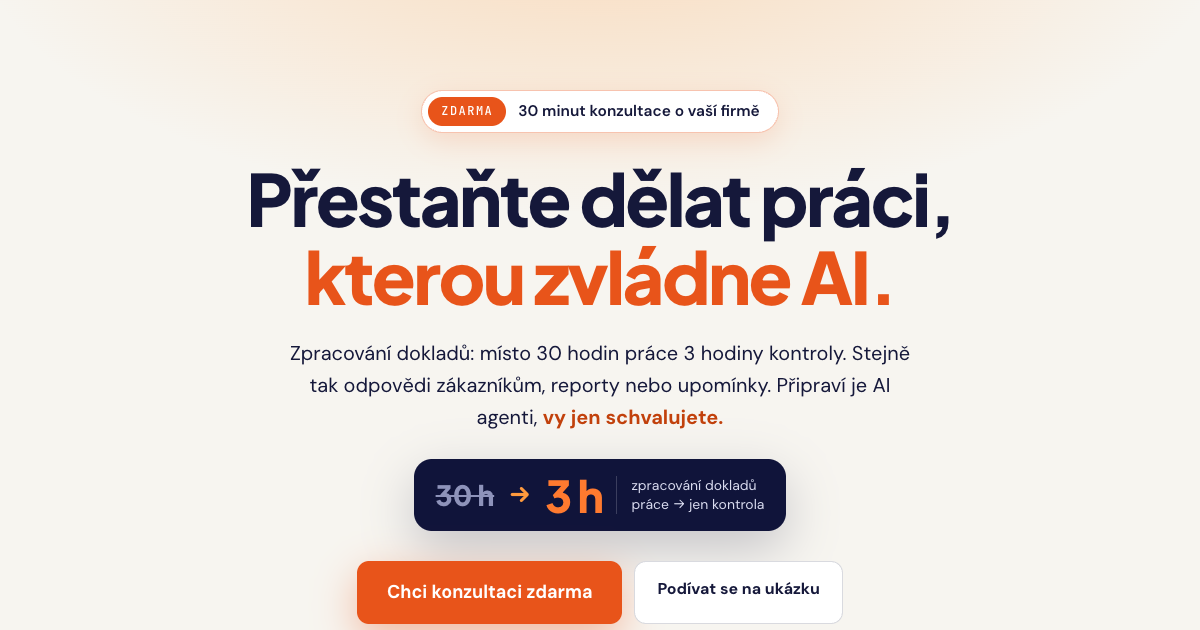
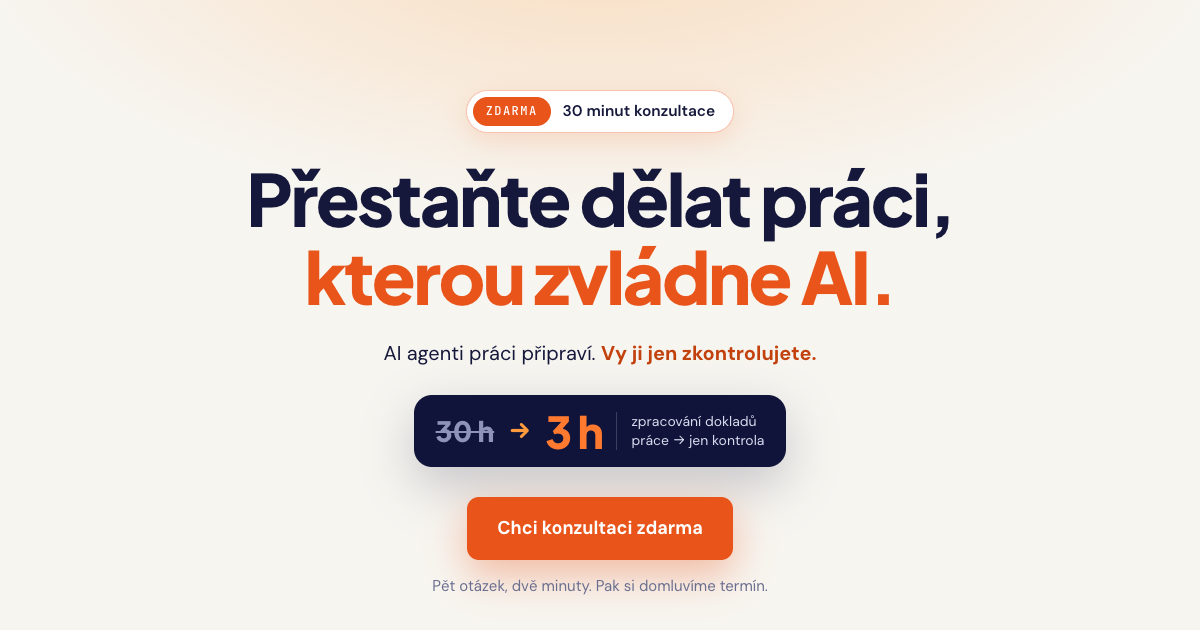
start: poloviční texty, kratší mobil a přímá cesta k formuláři
- texty stránky zkráceny z 522 na 245 slov, na mobilu případy použití jako kompaktní řádky
- formulář začíná rovnou první otázkou (bez úvodní obrazovky), jedno znění hlavního tlačítka
- výsledek na mobilu: krátký verdikt, zamčená část jen jako ukázka, 3 pole místo 4
- po odemčení tlačítko na výběr termínu v kalendáři
- sloučena ukázka do sekce Ráno, odstraněny karty pro koho a oranžový pruh

Changed region(s): [[0.2467, 0.6032, 0.74, 1.0], [0.3392, 0.1206, 0.6475, 0.2111], [0.2467, 0.5429, 0.7708, 0.573]]

diff --git a/start/index.html b/start/index.html
@@ -180,7 +180,7 @@ section{padding:72px 0}
 .az .task .n{flex:none;font-family:var(--mono);color:var(--o1);font-size:13px;padding-top:3px}
 .az .task p{margin:0;font-size:15px}
 .az .locked{position:relative;margin-top:10px}
-.az .locked .blur{filter:blur(6px);opacity:.55;pointer-events:none;user-select:none}
+.az .locked .blur{filter:blur(6px);opacity:.55;pointer-events:none;user-select:none;max-height:104px;overflow:hidden}
 .az .locked .veil{position:absolute;inset:0;display:grid;place-items:center;text-align:center;padding:16px}
 .az .veil span{background:rgba(16,20,58,.85);border:1px solid var(--line);border-radius:999px;padding:8px 14px;font-size:14px;font-weight:600}
 .az form{display:grid;gap:12px;margin-top:14px}
@@ -211,7 +211,22 @@ section{padding:72px 0}
 footer{background:#0B0F2E;color:#8E93BA;padding:28px 0;font-size:14px}
 footer .wrap{display:flex;flex-wrap:wrap;gap:10px 24px;justify-content:space-between;align-items:center}
 footer a{color:#C9CCE6}
-@media(max-width:600px){section{padding:56px 0}.hero{padding:48px 0 44px}.btn{width:100%;text-align:center}.top .btn{width:auto}.az{padding:60px 0}}
+.micro{margin-top:14px;font-size:15px;color:var(--ink3)}
+.az .verdict h2{font-size:clamp(22px,4.6vw,30px);margin:0 0 6px}
+.az .cal{display:inline-block;text-decoration:none;color:#fff;margin-top:6px}
+@media(max-width:639px){
+.ucs{gap:0;margin-top:22px;background:#fff;border:1px solid var(--line);border-radius:18px;padding:2px 18px}
+.uc,.uc:first-child{display:grid;grid-template-columns:1fr auto;align-items:center;gap:8px 12px;padding:14px 0;border:0;border-bottom:1px solid var(--line);border-radius:0;box-shadow:none;background:none}
+.uc:last-child{border-bottom:0}
+.uc h3{font-size:16px}
+.uc .nums{margin:0;gap:6px;justify-content:flex-end;flex-wrap:wrap}
+.uc .was{font-size:15px}.uc .arr{font-size:14px}.uc .now{font-size:24px}
+.uc .per{flex-basis:100%;text-align:right;margin:0;font-size:10px}
+.uc .bars{grid-column:1/-1;margin:0;height:6px}.uc .bars i{height:6px}
+.uc p{display:none}
+}
+@media(max-width:600px){section{padding:44px 0}.hero{padding:40px 0 40px}.btn{width:100%;text-align:center}.top .btn{width:auto}.az{padding:44px 0 52px}.az .cal{width:100%;text-align:center}
+.free{margin-bottom:20px}.flow{gap:14px;margin-top:26px}.flownote{margin-top:20px}.queue .m{padding:12px 16px}.az .bar{margin-bottom:20px}}
 @media(prefers-reduced-motion:reduce){*{animation:none!important;transition:none!important}html{scroll-behavior:auto}}
 </style>
 </head>
@@ -223,91 +238,76 @@ footer a{color:#C9CCE6}
 
 <main>
 <section class="hero"><div class="wrap">
-<a class="free" href="#analyza"><b>Zdarma</b>30 minut konzultace o vaší firmě</a>
+<a class="free" href="#analyza"><b>Zdarma</b>30 minut konzultace</a>
 <h1>Přestaňte dělat práci,<br><span>kterou zvládne AI.</span></h1>
-<p class="lead">Zpracování dokladů: místo 30 hodin práce 3 hodiny kontroly. Stejně tak odpovědi zákazníkům, reporty nebo upomínky. Připraví je AI agenti, <b>vy jen schvalujete.</b></p>
+<p class="lead">AI agenti práci připraví. <b>Vy ji jen zkontrolujete.</b></p>
 <a class="herostat" href="#pripady" aria-label="Zpracování dokladů: z 30 hodin práce na 3 hodiny kontroly"><span class="was">30 h</span><span class="arr">→</span><span class="now">3 h</span><span class="what">zpracování dokladů<br>práce → jen kontrola</span></a>
-<div class="cta"><a class="btn big" href="#analyza">Chci konzultaci zdarma</a><a class="btn ghost" href="../demo/">Podívat se na ukázku</a></div>
-<ul class="pills" style="margin-top:22px"><li>30 minut, nic neplatíte</li><li>k ničemu se nezavazujete</li><li>bez vás nic neodejde</li></ul>
+<div class="cta"><a class="btn big" href="#analyza">Chci konzultaci zdarma</a></div>
+<p class="micro">Pět otázek, dvě minuty. Pak si domluvíme termín.</p>
 </div></section>
 
 <section id="pripady"><div class="wrap">
-<p class="eyebrow">Kde se vám vrátí čas</p>
-<h2>Z hodin práce zbydou hodiny kontroly.</h2>
-<p class="sub">Šest prací, které firmy dělají ručně každý týden. Agent je připraví, člověk zkontroluje a schválí.</p>
+<p class="eyebrow">Úspora času</p>
+<h2>Z hodin práce hodiny kontroly.</h2>
 <div class="ucs">
 <article class="uc"><h3>Zpracování dokladů</h3>
 <div class="nums"><span class="was">30 h</span><span class="arr">→</span><span class="now">3 h</span></div>
 <div class="bars" aria-hidden="true"><i class="b1"></i><i class="b2" style="width:10%"></i></div>
-<p>Agent doklady přečte, zařadí a připraví k zaúčtování. Vy projdete jen to, co označil.</p></article>
+<p>Agent je přečte, zařadí a připraví k zaúčtování.</p></article>
 <article class="uc"><h3>Dotazy zákazníků</h3>
 <div class="nums"><span class="was">15 h</span><span class="arr">→</span><span class="now">6 h</span><span class="per">týdně</span></div>
 <div class="bars" aria-hidden="true"><i class="b1"></i><i class="b2" style="width:40%"></i></div>
-<p>U každého dotazu čeká návrh odpovědi s údaji z objednávky. Stačí schválit nebo upravit.</p></article>
+<p>Odpověď je připravená, vy ji schválíte.</p></article>
 <article class="uc"><h3>Poptávky a připomenutí</h3>
 <div class="nums"><span class="was">8 h</span><span class="arr">→</span><span class="now">3 h</span><span class="per">týdně</span></div>
 <div class="bars" aria-hidden="true"><i class="b1"></i><i class="b2" style="width:38%"></i></div>
-<p>Odpovědi na poptávky a zprávy rozjednaným klientům jsou nachystané. Odesíláte vy.</p></article>
+<p>Zprávy jsou nachystané, odesíláte vy.</p></article>
 <article class="uc"><h3>Reporty a zjišťování stavu</h3>
 <div class="nums"><span class="was">6 h</span><span class="arr">→</span><span class="now">1 h</span><span class="per">týdně</span></div>
 <div class="bars" aria-hidden="true"><i class="b1"></i><i class="b2" style="width:17%"></i></div>
-<p>Místo exportů a dotazů kolegům přijde ráno hotový přehled.</p></article>
+<p>Ráno přijde hotový přehled.</p></article>
 <article class="uc"><h3>Zápisy a hledání informací</h3>
 <div class="nums"><span class="was">5 h</span><span class="arr">→</span><span class="now">1,5 h</span><span class="per">týdně</span></div>
 <div class="bars" aria-hidden="true"><i class="b1"></i><i class="b2" style="width:30%"></i></div>
-<p>Co se domluvilo, je zapsané na jednom místě. Nikdo to nehledá v e-mailech.</p></article>
-<article class="uc"><h3>Kontroly e-shopu a reklamy</h3>
+<p>Všechno je zapsané na jednom místě.</p></article>
+<article class="uc"><h3>Kontroly e‑shopu a reklamy</h3>
 <div class="nums"><span class="was">4 h</span><span class="arr">→</span><span class="now">1 h</span><span class="per">týdně</span></div>
 <div class="bars" aria-hidden="true"><i class="b1"></i><i class="b2" style="width:25%"></i></div>
-<p>Agent kontroluje každý den. Člověk řeší jen to, co našel.</p></article>
+<p>Agent hlídá každý den, vy řešíte nálezy.</p></article>
 </div>
-<p class="est"><b>Jsou to odhady, ne měření.</b> Čísla týdně počítáme pro tříčlenný tým menšího e-shopu. Jak to vyjde u vás, spočítáme na vašich datech v první analýze.</p>
-<div class="cta"><a class="btn big" href="#analyza">Chci vědět, kolik ušetříme my</a></div>
+<p class="est"><b>Jsou to odhady, ne měření.</b> Týdenní čísla platí pro tříčlenný tým menšího e‑shopu. Vaše spočítáme v první analýze.</p>
+<div class="cta"><a class="btn big" href="#analyza">Chci konzultaci zdarma</a></div>
 </div></section>
 
 <section class="white"><div class="wrap split">
 <div>
-<p class="eyebrow">Jak vypadá ráno</p>
-<h2>Přijdete do práce a&nbsp;půlka je hotová.</h2>
-<p class="sub">Agent není chatovací okno, do kterého musíte psát. Je to pomocník s jednou jasnou prací. Udělá ji sám podle plánu a výsledek vám pošle tam, kde už pracujete, třeba do Slacku nebo e-mailu.</p>
-<p class="sub">Vy návrh schválíte, upravíte, nebo vrátíte. Když si agent není jistý, řekne to a nechá rozhodnutí na vás.</p>
+<p class="eyebrow">Jak to vypadá</p>
+<h2>Ráno máte půlku hotovou.</h2>
+<p class="sub">Agent pracuje sám podle plánu. Výsledek vám pošle do Slacku nebo e-mailu a vy ho schválíte, upravíte, nebo vrátíte.</p>
+<p class="sub"><a href="../demo/">Prohlédnout ukázku na vymyšleném e‑shopu →</a></p>
 </div>
 <div class="queue" aria-label="Ukázka ranních zpráv od agentů">
 <div class="qh"><span># ranní-fronta</span><span>ukázka</span></div>
-<div class="m"><div class="av">P</div><div><b>Podpora</b><time>06:30</time><p>K devíti dotazům mám připravené odpovědi. Jednu reklamaci nechávám na vás, nejsem si jistý.</p><span class="ok">Schválit 9</span><span class="no">Otevřít</span></div></div>
-<div class="m"><div class="av">O</div><div><b>Obchod</b><time>06:45</time><p>Tři rozjednané nabídky čekají na ozvání. Zprávy mám nachystané, u každé je, o čem byla řeč naposledy.</p></div></div>
-<div class="m"><div class="av">F</div><div><b>Finance</b><time>07:00</time><p>Tři faktury jsou po splatnosti. Upomínky jsou připravené, nic neodešlo.</p></div></div>
+<div class="m"><div class="av">P</div><div><b>Podpora</b><time>06:30</time><p>Devět odpovědí je připravených. Jednu reklamaci nechávám na vás.</p><span class="ok">Schválit 9</span><span class="no">Otevřít</span></div></div>
+<div class="m"><div class="av">O</div><div><b>Obchod</b><time>06:45</time><p>Tři nabídky čekají na ozvání. Zprávy mám nachystané.</p></div></div>
+<div class="m"><div class="av">F</div><div><b>Finance</b><time>07:00</time><p>Tři faktury jsou po splatnosti. Upomínky čekají na schválení.</p></div></div>
 </div>
-</div></section>
-
-<section class="white"><div class="wrap demo">
-<div><p class="eyebrow">Ukázka</p><h2>Podívejte se, jak to vypadá v provozu.</h2><p>Vymyšlený e-shop Zelená bedýnka: osm přehledů od objednávek po finance a u každého návrhy agentů ke schválení. Data jsou smyšlená, systém je stejný, jaký používáme sami.</p></div>
-<a class="btn ghost" href="../demo/">Otevřít ukázku</a>
 </div></section>
 
 <section id="postup"><div class="wrap">
-<p class="eyebrow">Jak to proběhne</p>
-<h2>Čtyři kroky. První dva vás nestojí nic.</h2>
+<p class="eyebrow">Postup</p>
+<h2>Čtyři kroky. První dva jsou zdarma.</h2>
 <ol class="flow">
-<li class="free1"><span class="dot">1</span><div class="fb"><span class="tag">2 minuty · zdarma</span><h3>Pět otázek</h3><p>Odpovíte dole na stránce. Hned uvidíte tři agenty, kteří by u vás mohli běžet první.</p></div></li>
-<li class="main"><span class="dot">2</span><div class="fb"><span class="tag">30 minut · zdarma</span><h3>Konzultace</h3><p>Zavoláme si. Projdeme, co vás pálí a kde začít. Přístupy do systémů nepotřebujeme.</p></div></li>
-<li><span class="dot">3</span><div class="fb"><span class="tag">cena podle rozsahu</span><h3>První analýza</h3><p>Na vašich datech spočítáme, kde se ztrácí nejvíc času. Dostanete čísla a zkušební přehled firmy.</p></div></li>
-<li><span class="dot">4</span><div class="fb"><span class="tag">nabídka po analýze</span><h3>Zavedení a péče</h3><p>Postavíme, co dává smysl, zaučíme vaše lidi a hlídáme, že to běží.</p></div></li>
+<li class="free1"><span class="dot">1</span><div class="fb"><span class="tag">2 minuty · zdarma</span><h3>Pět otázek</h3><p>Uvidíte, kterým agentem začít.</p></div></li>
+<li class="main"><span class="dot">2</span><div class="fb"><span class="tag">30 minut · zdarma</span><h3>Konzultace</h3><p>Projdeme, co vás pálí a kde začít.</p></div></li>
+<li><span class="dot">3</span><div class="fb"><span class="tag">cena podle rozsahu</span><h3>První analýza</h3><p>Spočítáme úsporu na vašich datech.</p></div></li>
+<li><span class="dot">4</span><div class="fb"><span class="tag">nabídka po analýze</span><h3>Zavedení a péče</h3><p>Postavíme, zaučíme lidi a hlídáme provoz.</p></div></li>
 </ol>
-<p class="flownote">Po každém kroku se rozhodujete znovu. Když to nedává smysl, skončíme.</p>
-<div class="fit">
-<div class="card yes"><h3>Dává to smysl, když</h3><ul><li>je vás ve firmě aspoň 15</li><li>se u vás opakuje hodně stejné práce</li><li>máte člověka, který si to vezme za své</li></ul></div>
-<div class="card nope"><h3>Zatím to není pro vás, když</h3><ul><li>je vás pár a všechno víte z hlavy</li><li>čekáte, že AI nahradí lidi</li><li>nechcete nikomu říct, jak má firma fungovat</li></ul></div>
-</div>
-</div></section>
-
-<section class="band"><div class="wrap">
-<div><h2>30 minut. Zdarma. K&nbsp;ničemu se&nbsp;nezavazujete.</h2><p>Odpovězte na pět otázek a ozveme se s termínem. Na konzultaci už budeme vědět, o čem mluvit.</p></div>
-<a class="btn white" href="#analyza">Začít pěti otázkami ↓</a>
+<p class="flownote">Po každém kroku se rozhodujete znovu.</p>
 </div></section>
 
 <section class="az" id="analyza"><div class="in">
-<div class="hd"><span class="mono">Online analýza</span><span class="mono" id="stepLabel"></span></div>
+<div class="hd"><span class="mono" id="hdLeft"></span><span class="mono" id="stepLabel"></span></div>
 <div class="bar" aria-hidden="true"><i id="bar"></i></div>
 <div id="app" aria-live="polite"></div>
 <noscript><p>Formulář potřebuje zapnutý JavaScript. Můžete nám také napsat na <a href="mailto:petr@locoglobal.ai">petr@locoglobal.ai</a>.</p></noscript>
@@ -328,7 +328,9 @@ const CONFIG = {
   // Kam se odešle kontakt (POST, JSON). Prázdné = prototyp, nic se neodesílá.
   submitUrl: "",
   // Správce osobních údajů — doplnit před spuštěním.
-  privacyText: "Kontakt použijeme jen k tomu, abychom se vám ozvali s výsledkem a termínem konzultace.",
+  // Kalendář pro výběr termínu konzultace (stejný odkaz jako v podrobné verzi webu).
+  calendarUrl: "https://calendar.app.google/v39ka3uchSRSSG2AA",
+  privacyText: "Kontakt použijeme jen k domluvě konzultace.",
   privacyUrl: ""
 };
 
@@ -362,26 +364,26 @@ const CATALOG = {
 
 /* ---------- Otázky ---------- */
 const QUESTIONS = [
-  { id:"industry", title:"V jakém oboru podnikáte?", hint:"Podle oboru vybereme agenty z katalogu.", options:[
+  { id:"industry", title:"V jakém oboru podnikáte?", hint:"Pět otázek, pak si domluvíme termín konzultace. Hned uvidíte, kterým agentem začít.", options:[
     {v:"ecom", t:"E-commerce a retail"},
     {v:"services", t:"Profesní služby", s:"Účetní, právní, poradenské a podobné firmy."},
     {v:"production", t:"Výroba a velkoobchod"},
     {v:"other", t:"Jiný obor"} ]},
-  { id:"size", title:"Kolik vás ve firmě je?", hint:"Podle velikosti se liší, kde začít.", cols:2, options:[
+  { id:"size", title:"Kolik vás ve firmě je?", cols:2, options:[
     {v:"lt15", t:"Do 15 lidí"},
     {v:"15-50", t:"15–50 lidí"},
     {v:"50-250", t:"50–250 lidí"},
     {v:"250+", t:"Přes 250 lidí"} ]},
-  { id:"pain", title:"Co vás dnes nejvíc pálí?", hint:"Agent se nasazuje první tam, kde to tlačí.",
+  { id:"pain", title:"Co vás dnes nejvíc pálí?",
     options:(a)=>CATALOG[a.industry||"other"].map((u,i)=>({v:String(i), t:u.pain})) },
-  { id:"systems", multi:true, title:"Kde u vás vzniká práce?", hint:"Vyberte všechno, co platí. Na jeden z těch systémů se první agent napojí.", cols:2, options:[
+  { id:"systems", multi:true, title:"Kde u vás vzniká práce?", hint:"Vyberte všechno, co platí.", cols:2, options:[
     {v:"mail", t:"E-mail a dokumenty"},
     {v:"chat", t:"Slack nebo Teams"},
     {v:"crm", t:"CRM"},
     {v:"helpdesk", t:"Helpdesk a tikety"},
     {v:"erp", t:"ERP nebo účetnictví"},
     {v:"eshop", t:"E-shop"} ]},
-  { id:"owner", title:"Máte člověka, který by si AI ve firmě vzal za své?", hint:"Nemusí být programátor. Stačí, že to povede.", options:[
+  { id:"owner", title:"Máte člověka, který si AI vezme za své?", hint:"Nemusí to být programátor.", options:[
     {v:"yes", t:"Ano, víme kdo"},
     {v:"maybe", t:"Asi ano, našli bychom ho"},
     {v:"no", t:"Ne, nikoho takového nemáme"} ]}
@@ -389,7 +391,7 @@ const QUESTIONS = [
 
 /* ---------- Stav ---------- */
 let started=false;
-const state = { step:-1, answers:{}, lead:null, sent:false };
+const state = { step:0, answers:{}, lead:null, sent:false };
 const app = document.getElementById("app");
 const $ = (h)=>{ const t=document.createElement("template"); t.innerHTML=h.trim(); return t.content.firstElementChild; };
 const esc = (s)=>String(s).replace(/[&<>"']/g,c=>({"&":"&amp;","<":"&lt;",">":"&gt;",'"':"&quot;","'":"&#39;"}[c]));
@@ -401,49 +403,35 @@ function pickTasks(a){
   return [list[first], ...list.filter((_,i)=>i!==first)].slice(0,3);
 }
 function verdict(a){
-  if(a.size==="lt15") return {kind:"entry", title:"Začněte jedním hotovým agentem.", text:"Ve firmě do 15 lidí dává smysl jeden hotový agent na jednu práci. Řešení pro celou firmu se vyplatí až větším týmům."};
-  if(a.owner==="no") return {kind:"entry", title:"Začněte hotovým agentem. Na víc bude potřeba vlastník.", text:"Hotový agent vlastníka nepotřebuje. Řešení pro celou firmu ano: jednoho člověka, který ho po předání povede. Na konzultaci ho pomůžeme vybrat."};
-  return {kind:"fit", title:"Dává to u vás smysl i pro celou firmu.", text:"Začít můžete jedním hotovým agentem. Na konzultaci pak projdeme, co by šlo dál: zapsané know-how firmy a agenti pro další oddělení."};
+  if(a.size==="lt15") return {kind:"entry", title:"Začněte jedním hotovým agentem.", text:"Ve firmě do 15 lidí stačí jeden agent na jednu práci."};
+  if(a.owner==="no") return {kind:"entry", title:"Začněte jedním hotovým agentem.", text:"Na řešení pro celou firmu je potřeba člověk, který ho povede. Pomůžeme vám ho vybrat."};
+  return {kind:"fit", title:"Dává to u vás smysl pro celou firmu.", text:"Začněte jedním agentem. Co dál, probereme na konzultaci."};
 }
 
 /* ---------- Vykreslení ---------- */
 function setProgress(){
-  const total = QUESTIONS.length+1, cur = state.step<0?0:Math.min(state.step+1,total);
-  document.getElementById("bar").style.width = (state.step<0?0:Math.round(cur/total*100))+"%";
-  document.getElementById("stepLabel").textContent =
-    state.step<0 ? "2 minuty" : state.step<QUESTIONS.length ? `otázka ${state.step+1} / ${QUESTIONS.length}` : (state.sent?"výsledek":"váš výsledek");
+  const total = QUESTIONS.length+1, inQ = state.step<QUESTIONS.length;
+  document.getElementById("bar").style.width = Math.round(Math.min(state.step+1,total)/total*100)+"%";
+  document.getElementById("hdLeft").textContent = inQ ? "Konzultace zdarma" : "Váš výsledek";
+  document.getElementById("stepLabel").textContent = inQ ? `otázka ${state.step+1} / ${QUESTIONS.length}` : "";
 }
 function render(){
   setProgress(); app.innerHTML="";
-  let view;
-  if(state.step<0) view=intro();
-  else if(state.step<QUESTIONS.length) view=question(QUESTIONS[state.step]);
-  else view=result();
+  const view = state.step<QUESTIONS.length ? question(QUESTIONS[state.step]) : result();
   view.classList.add("fade"); app.appendChild(view);
   if(started){ document.getElementById("analyza").scrollIntoView({behavior:"auto",block:"start"});
     const h=app.querySelector("h2"); if(h){ h.tabIndex=-1; h.focus({preventScroll:true}); } }
   started=true;
 }
-function intro(){
-  const el=$(`<div>
-        <h2>Kolik věcí u vás běží, <span class="grad">aniž by u toho někdo seděl?</span></h2>
-    <p class="lead">Skoro všude je odpověď „nic“. Pět otázek a uvidíte tři agenty, kteří by u vás mohli běžet první. Pracují podle plánu, i v noci, a výsledek vám ráno nechají ke schválení.</p>
-    <div class="row"><button class="btn" id="go">Zjistit, kde začít →</button><span class="hint">5 otázek · 2 minuty</span></div>
-    <ul class="pills"><li>znalost zůstává vám</li><li>agent navrhuje, člověk schvaluje</li><li>první agent do několika dnů</li></ul>
-  </div>`);
-  el.querySelector("#go").onclick=()=>{ state.step=0; render(); };
-  return el;
-}
 function question(q){
   const opts = typeof q.options==="function" ? q.options(state.answers) : q.options;
   const sel = state.answers[q.id] ?? (q.multi?[]:null);
   const el=$(`<div>
-    <div class="mono">${state.step+1} / ${QUESTIONS.length}</div>
     <h2>${esc(q.title)}</h2>
-    <p class="hint">${esc(q.hint)}</p>
+    ${q.hint?`<p class="hint">${esc(q.hint)}</p>`:""}
     <div class="opts ${q.cols===2?"c2":""}" role="group" aria-label="${esc(q.title)}"></div>
     ${q.multi?`<div class="row"><button class="btn" id="next" disabled>Pokračovat →</button></div>`:""}
-    <button class="back" id="back">← Zpět</button>
+    ${state.step>0?`<button class="back" id="back">← Zpět</button>`:""}
   </div>`);
   const box=el.querySelector(".opts");
   opts.forEach((o,i)=>{
@@ -460,22 +448,22 @@ function question(q){
     box.appendChild(b);
   });
   if(q.multi){ const n=el.querySelector("#next"); n.disabled = sel.length===0; n.onclick=()=>{ state.step++; render(); }; }
-  el.querySelector("#back").onclick=()=>{ state.step--; render(); };
+  const bk=el.querySelector("#back"); if(bk) bk.onclick=()=>{ state.step--; render(); };
   return el;
 }
 function taskLi(t,i){ return `<li class="task"><span class="n">0${i+1}</span><div><h3>${esc(t.name)}</h3><p>${esc(t.desc)}</p></div></li>`; }
 function queue(tasks){
   const sorted=[...tasks].sort((a,b)=>a.time.localeCompare(b.time));
-  return `<div class="slack"><div class="top"><span># ranní-fronta</span><span>ukázková data · nic neodešlo bez vás</span></div>
+  return `<div class="slack"><div class="top"><span style="white-space:nowrap"># ranní‑fronta</span><span>ukázková data</span></div>
     ${sorted.map(t=>`<div class="msg"><div class="av">${esc(t.agent[0])}</div><div><b>${esc(t.agent)}</b><time>${t.time}</time><p>${esc(t.msg)}</p></div></div>`).join("")}</div>`;
 }
 function result(){
   const a=state.answers, v=verdict(a), tasks=pickTasks(a);
   const el=$(`<div>
-    <div class="mono">Váš výsledek</div>
-    <section class="card verdict"><h2>${esc(v.title)}</h2><p style="margin:0">${esc(v.text)}</p></section>
+    <div id="doneBox"></div>
+    ${state.sent?"":`<section class="card verdict"><h2>${esc(v.title)}</h2><p style="margin:0">${esc(v.text)}</p></section>`}
     <section>
-      <h3>Tři agenti, kteří u vás můžou běžet první</h3>
+      <h3>${state.sent?"Tři agenti, kterými můžete začít":"Váš první agent"}</h3>
       <ul class="tasks">${taskLi(tasks[0],0)}</ul>
       <div id="rest"></div>
     </section>
@@ -487,7 +475,7 @@ function result(){
     <h3 style="margin-top:22px">Takhle by vypadalo vaše ráno</h3>${queue(tasks)}`;
   if(state.sent){
     rest.innerHTML=restHtml;
-    gate.appendChild(done(v));
+    el.querySelector("#doneBox").appendChild(done(v));
   } else {
     rest.innerHTML=`<div class="locked"><div class="blur" aria-hidden="true">${restHtml}</div><div class="veil"><span>🔒 Další dva agenti a ukázka vašeho rána</span></div></div>`;
     gate.appendChild(leadForm(v,tasks));
@@ -498,17 +486,14 @@ function result(){
 function leadForm(v,tasks){
   const cta = "Chci celý výsledek a konzultaci";
   const el=$(`<div class="card">
-    <h3>Kam vám celý výsledek poslat?</h3>
-    <p class="hint">Odemkne se hned. ${esc(CONFIG.contactName)} se vám pak ozve s termínem konzultace. Je zdarma a trvá 30 minut.</p>
+    <h3>Odemkněte celý výsledek</h3>
+    <p class="hint">Ukáže se hned. Pak se ozveme s termínem konzultace: 30 minut, zdarma.</p>
     <form novalidate>
       <div class="two">
         <label>Jméno<input name="name" autocomplete="name" placeholder="Jan Novák" required></label>
         <label>Firma<input name="company" autocomplete="organization" placeholder="Firma s.r.o." required></label>
       </div>
-      <div class="two">
-        <label>Pracovní e-mail<input name="email" type="email" inputmode="email" autocomplete="email" placeholder="jan@firma.cz" required></label>
-        <label>Telefon (nepovinné)<input name="phone" type="tel" inputmode="tel" autocomplete="tel" placeholder="+420"></label>
-      </div>
+      <label>Pracovní e-mail<input name="email" type="email" inputmode="email" autocomplete="email" placeholder="jan@firma.cz" required></label>
       <p class="err" role="alert"></p>
       <button class="btn" type="submit">${cta} →</button>
       <p class="legal">${esc(CONFIG.privacyText)}${CONFIG.privacyUrl?` <a href="${esc(CONFIG.privacyUrl)}" target="_blank" rel="noopener">Zásady zpracování</a>.`:""}</p>
@@ -539,17 +524,12 @@ function leadForm(v,tasks){
 }
 function done(v){
   const proto = !CONFIG.submitUrl;
-  return $(`<div class="card">
-    <h3>${proto?"Výsledek je odemčený.":"Díky, máme to."}</h3>
-    ${proto?`<div class="note"><b>Prototyp:</b> formulář zatím není napojený, kontakt se nikam neodeslal.</div>`
-           :`<p>${esc(CONFIG.contactName)} se vám ozve s termínem konzultace.</p>`}
-    <h3 style="margin-top:18px">Co bude dál</h3>
-    <ol class="steps">
-      <li>Na konzultaci projdeme váš výsledek. Je zdarma, trvá 30 minut a přístupy do systémů na ni nepotřebujeme.</li>
-      <li>Vyberete agenta, kterým začít. Napojí se na jeden váš systém a běží do několika dnů.</li>
-      <li>Po prvním týdnu provozu se podíváme na výsledky a na to, co by šlo předat agentům dál.</li>
-    </ol>
-    <p class="hint" style="margin:16px 0 0">Nechcete čekat? Napište na <a href="mailto:${esc(CONFIG.contactEmail)}">${esc(CONFIG.contactEmail)}</a>.</p>
+  return $(`<div class="card" style="margin-bottom:22px">
+    <h2>${proto?"Výsledek je odemčený.":"Díky, máme to."}</h2>
+    ${proto?`<div class="note" style="margin:0 0 14px"><b>Prototyp:</b> formulář zatím není napojený, kontakt se nikam neodeslal.</div>`
+           :`<p>Ozveme se vám s termínem konzultace. Nechcete čekat? Vyberte si ho hned.</p>`}
+    <a class="btn cal" href="${esc(CONFIG.calendarUrl)}" target="_blank" rel="noopener">Vybrat termín konzultace →</a>
+    <p class="hint" style="margin:14px 0 0">30 minut, zdarma. Nebo napište na <a href="mailto:${esc(CONFIG.contactEmail)}">${esc(CONFIG.contactEmail)}</a>.</p>
   </div>`);
 }
 render();
